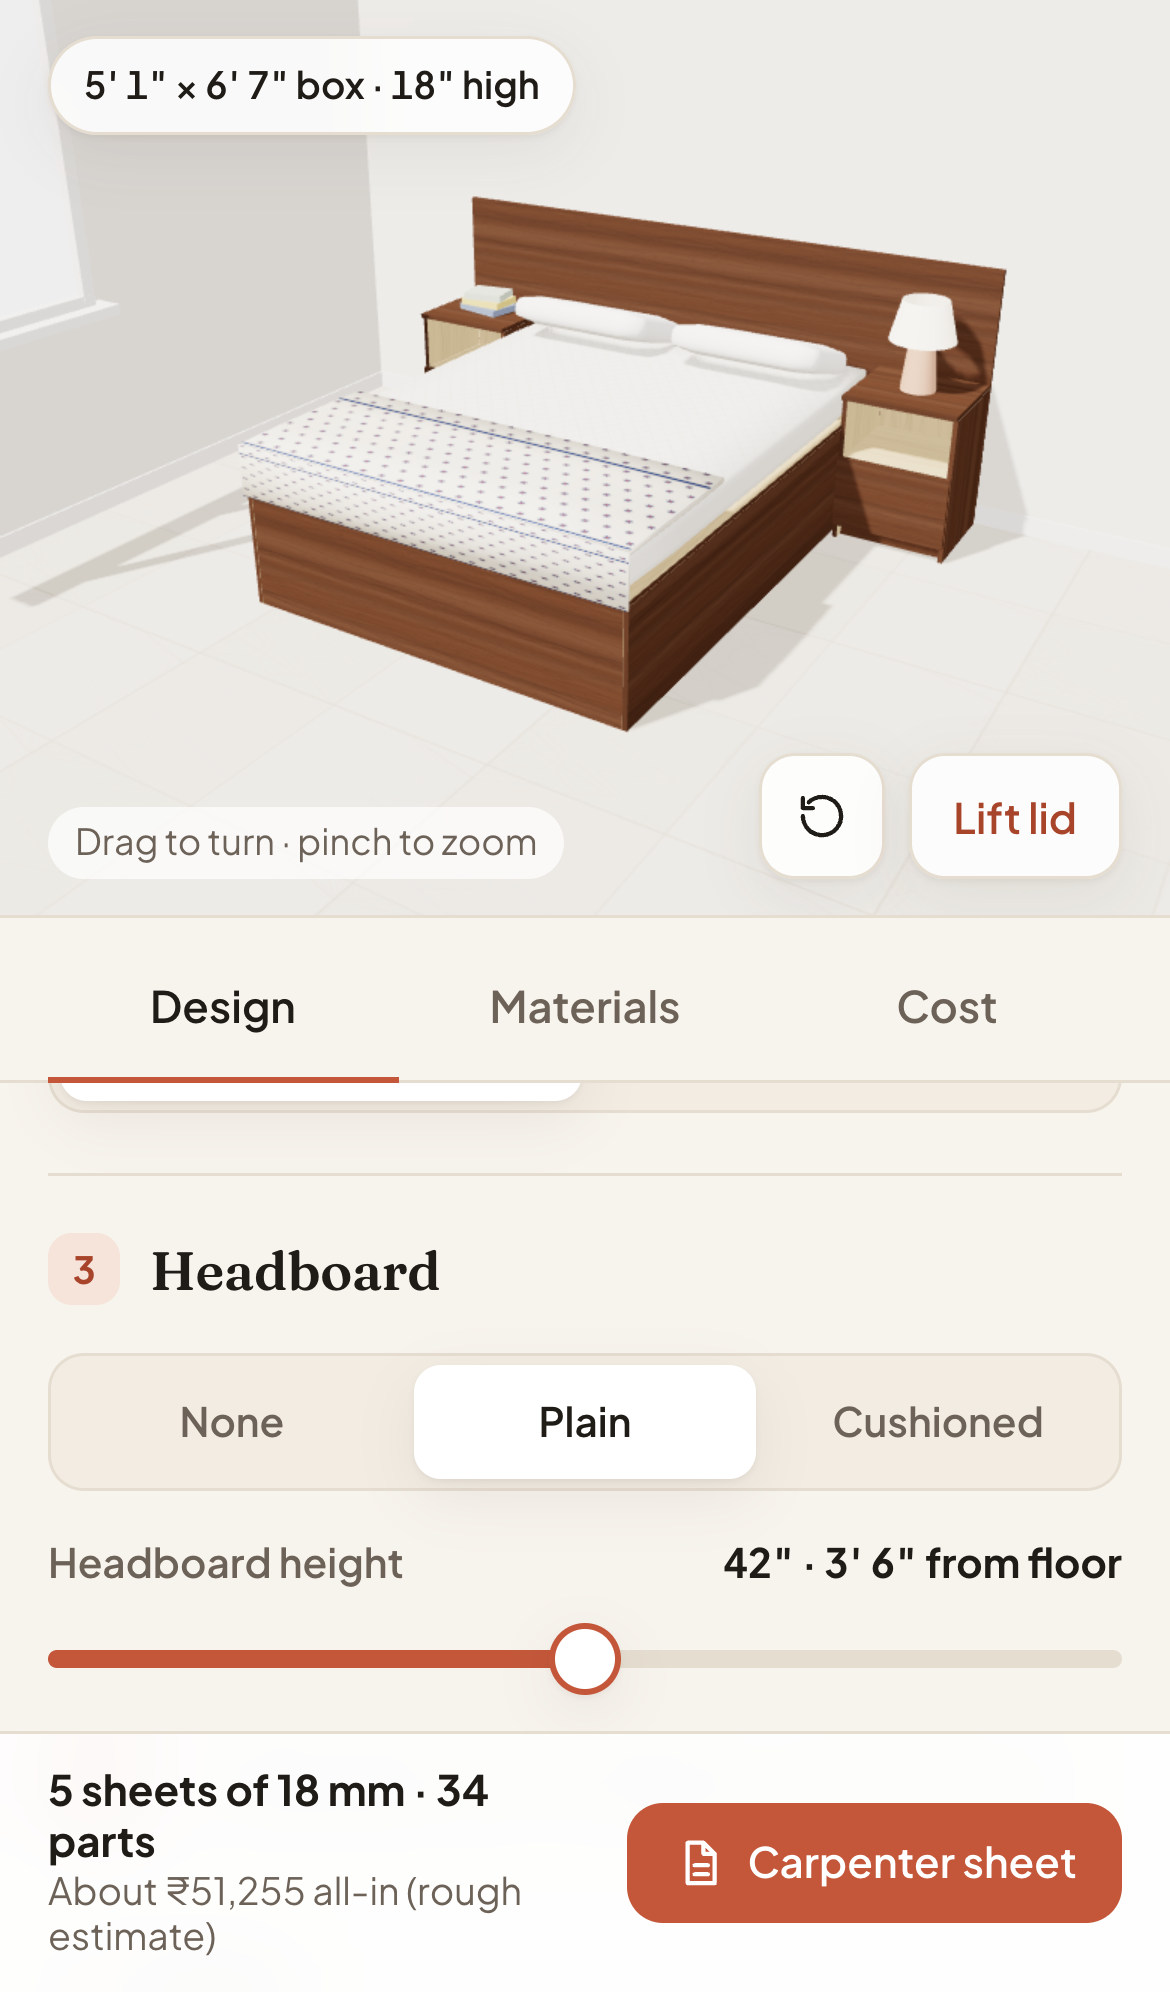
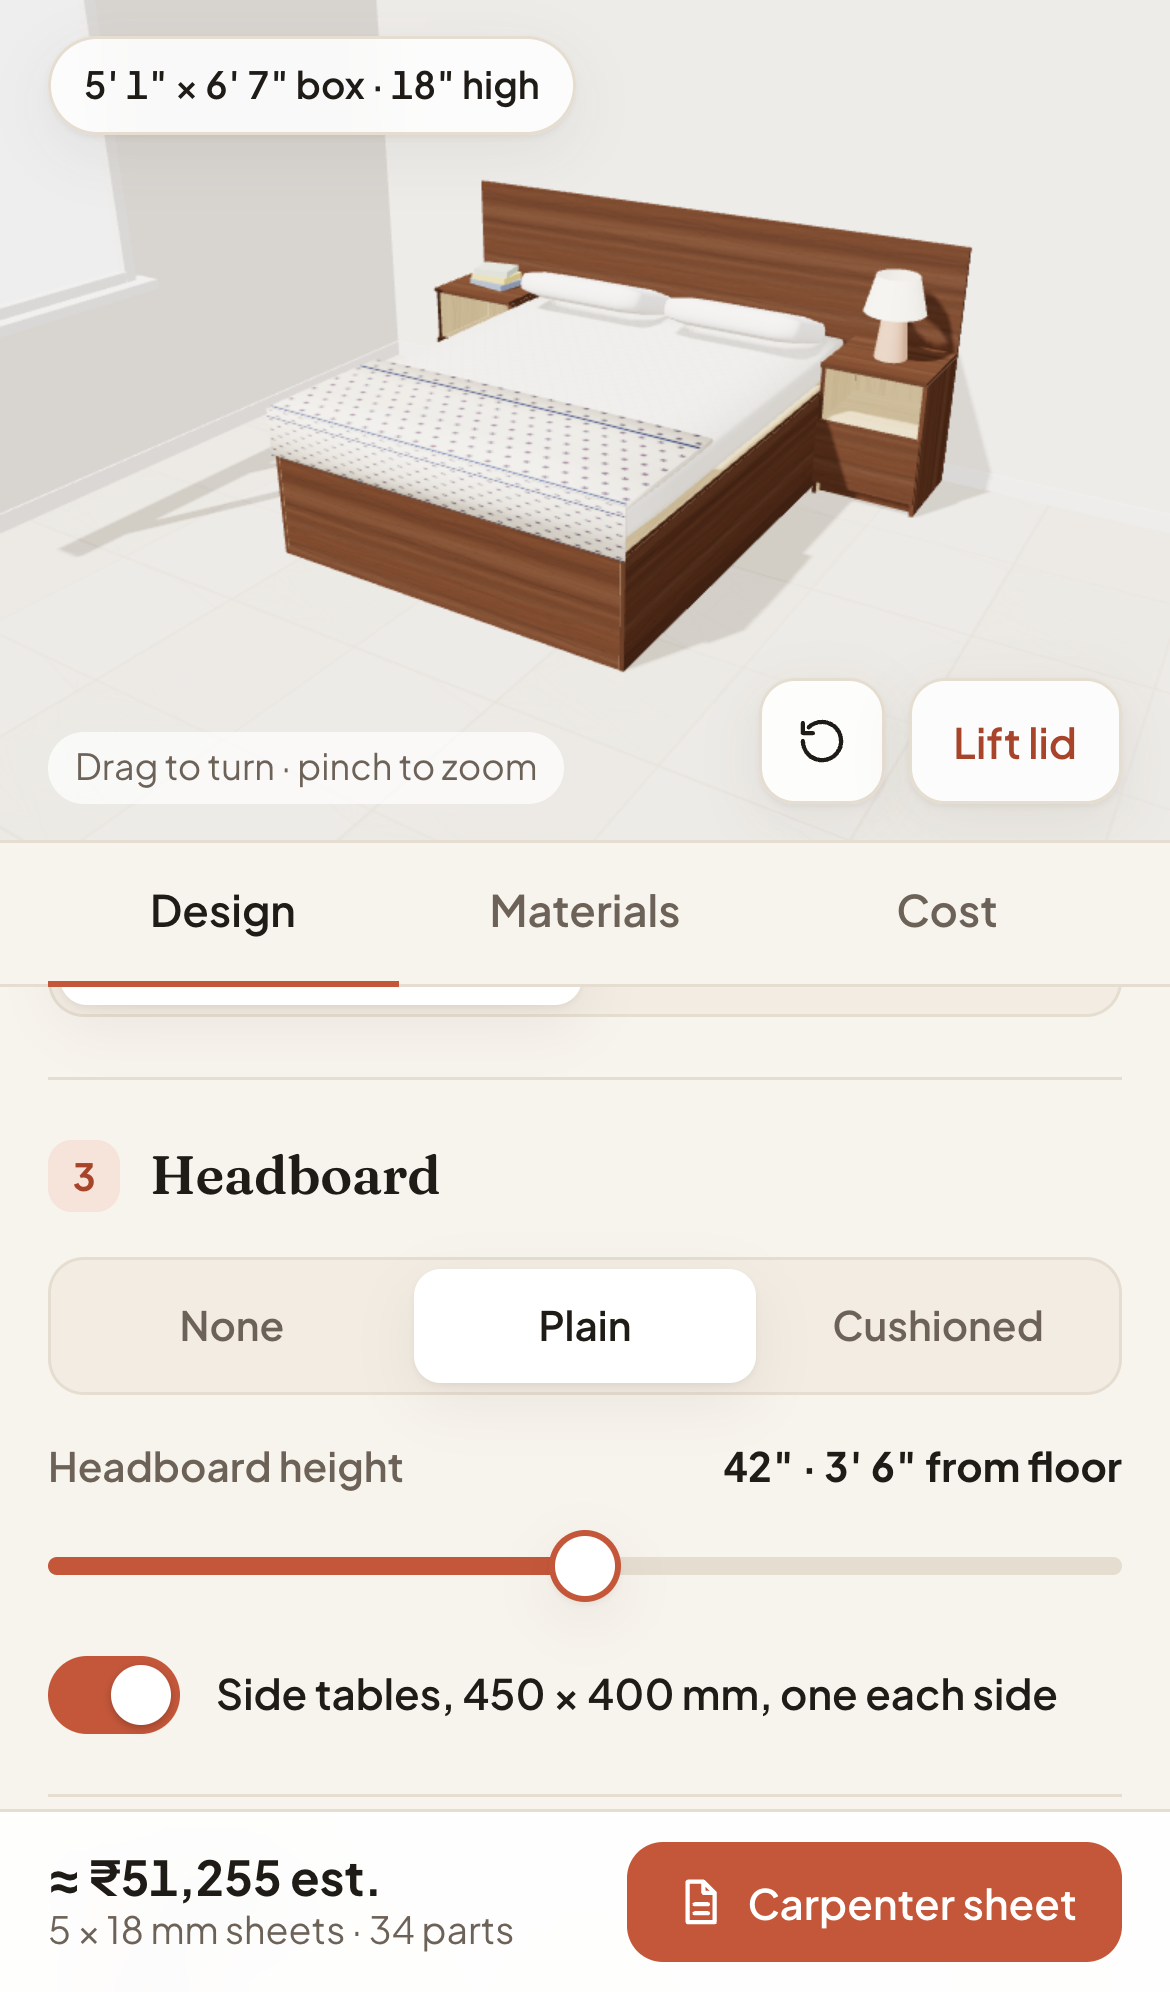
Polish mobile layout, README and screenshots

diff --git a/css/styles.css b/css/styles.css
@@ -60,9 +60,9 @@ button { cursor: pointer; }
 .logo-bg { fill: var(--accent); }
 .logo-ink { fill: none; stroke: var(--accent-ink); stroke-width: 3; stroke-linecap: round; stroke-linejoin: round; }
 .logo-dot { fill: var(--accent-ink); }
-.brand-text { display: flex; flex-direction: column; line-height: 1.05; }
+.brand-text { display: flex; flex-direction: column; gap: 3px; line-height: 1; }
 .brand-name { font-family: var(--display); font-weight: 700; font-size: 21px; letter-spacing: -.01em; }
-.brand-sub { font-size: 11.5px; color: var(--muted); letter-spacing: .04em; text-transform: uppercase; font-weight: 600; }
+.brand-sub { font-size: 10.5px; color: var(--muted); letter-spacing: .04em; text-transform: uppercase; font-weight: 600; }
 .top-actions { display: flex; gap: 8px; align-items: center; }
 .icon-btn {
   width: 40px; height: 40px; border-radius: 12px; border: 1px solid var(--border); background: var(--surface);
@@ -95,7 +95,7 @@ button { cursor: pointer; }
 
 /* ---------- layout (mobile first) */
 .layout { display: block; }
-.stage { position: relative; height: 46svh; min-height: 280px; background: var(--surface-2); overflow: hidden; }
+.stage { position: relative; height: 42svh; min-height: 280px; background: var(--surface-2); overflow: hidden; }
 body.tab-design .stage { position: sticky; top: 0; z-index: 10; box-shadow: 0 1px 0 var(--border); }
 .viewport { position: absolute; inset: 0; }
 .viewport canvas { display: block; touch-action: none; }
@@ -117,14 +117,14 @@ body.tab-design .stage { position: sticky; top: 0; z-index: 10; box-shadow: 0 1p
 @keyframes spin { to { transform: rotate(360deg); } }
 
 .panel { background: var(--bg); position: relative; }
-.tabs { display: flex; gap: 4px; padding: 10px var(--gutter) 0; border-bottom: 1px solid var(--border); background: var(--bg); position: sticky; top: 0; z-index: 9; }
-body.tab-design .tabs { top: 46svh; }
+.tabs { display: flex; gap: 4px; padding: 4px var(--gutter) 0; border-bottom: 1px solid var(--border); background: var(--bg); position: sticky; top: 0; z-index: 9; }
+body.tab-design .tabs { top: 42svh; }
 .tabs button {
   flex: 1; border: 0; background: none; padding: 10px 6px 12px; font-weight: 600; color: var(--muted); font-size: 14.5px;
-  border-bottom: 2.5px solid transparent; margin-bottom: -1px;
+  border-bottom: 2.5px solid transparent; margin-bottom: -1px; min-height: 44px;
 }
 .tabs button[aria-selected="true"] { color: var(--text); border-bottom-color: var(--accent); }
-.tab-body { padding: 6px var(--gutter) 110px; }
+.tab-body { padding: 6px var(--gutter) 96px; }
 
 .summary-bar {
   position: fixed; left: 0; right: 0; bottom: 0; z-index: 15; display: flex; align-items: center; justify-content: space-between; gap: 12px;
@@ -133,8 +133,8 @@ body.tab-design .tabs { top: 46svh; }
   border-top: 1px solid var(--border);
 }
 .sum { display: flex; flex-direction: column; line-height: 1.25; min-width: 0; }
-.sum strong { font-size: 14px; }
-.sum span { font-size: 12.5px; color: var(--muted); }
+.sum strong { font-size: 16px; white-space: nowrap; font-variant-numeric: tabular-nums; }
+.sum span { font-size: 12.5px; color: var(--muted); white-space: nowrap; overflow: hidden; text-overflow: ellipsis; }
 
 @media (min-width: 960px) {
   body { overflow: hidden; }
@@ -284,6 +284,11 @@ td .sub { display: block; font-size: 11.5px; color: var(--faint); }
 .toast.show { opacity: 1; transform: translate(-50%, 0); }
 
 @media (prefers-reduced-motion: reduce) { *, *::before, *::after { transition: none !important; animation: none !important; } }
+
+html.capture body { overflow: visible; }
+html.capture body > :not(.sheet-view) { display: none !important; }
+html.capture .sheet-view { position: static; overflow: visible; }
+html.capture .sheet-toolbar { display: none; }
 
 @media print {
   @page { size: A4; margin: 12mm; }

diff --git a/js/export.js b/js/export.js
@@ -4,6 +4,7 @@
   var B = root.BedCore, esc = B.esc;
   var LOGO = '<svg viewBox="0 0 40 40" aria-hidden="true"><rect width="40" height="40" rx="11" fill="#c4573a"/><path d="M9 11v18M9 22.5h22V29M9 18h7.5a4 4 0 0 1 4 4.5" fill="none" stroke="#fff" stroke-width="3" stroke-linecap="round" stroke-linejoin="round"/><circle cx="13.2" cy="15" r="2.4" fill="#fff"/></svg>';
 
+  function plural(u, n) { return n === 1 || u === 'm' || u === 'kg' || u === 'm²' || u === 'box of 100' ? u : u === 'pc' ? 'pcs' : u + 's'; }
   function today() { try { return new Date().toLocaleDateString('en-IN', { day: 'numeric', month: 'short', year: 'numeric' }); } catch (e) { return ''; } }
   function mmIn(a, b) { return a + ' × ' + b + ' mm'; }
   function inIn(a, b) { return B.inch(a) + ' × ' + B.inch(b); }
@@ -49,7 +50,7 @@
   function matTable(mats) {
     var h = '<div class="table-wrap"><table><thead><tr><th>Item</th><th>Details</th><th class="r">Qty</th></tr></thead><tbody>';
     sheetLines(mats).forEach(function (l) {
-      h += '<tr><td><b>' + esc(l.item) + '</b></td><td>' + esc(l.spec) + '</td><td class="r">' + l.qty + ' ' + esc(l.unit) + '</td></tr>';
+      h += '<tr><td><b>' + esc(l.item) + '</b></td><td>' + esc(l.spec) + '</td><td class="r">' + l.qty + ' ' + esc(plural(l.unit, l.qty)) + '</td></tr>';
     });
     return h + '</tbody></table></div>';
   }
@@ -90,7 +91,7 @@
     });
     L.push('');
     L.push('*Materials*');
-    sheetLines(mats).forEach(function (l) { L.push('• ' + l.item + ': ' + l.qty + ' ' + l.unit + ' (' + l.spec + ')'); });
+    sheetLines(mats).forEach(function (l) { L.push('• ' + l.item + ': ' + l.qty + ' ' + plural(l.unit, l.qty) + ' (' + l.spec + ')'); });
     L.push('');
     L.push('*Notes*');
     B.notes(d, mats).forEach(function (n, i) { L.push((i + 1) + '. ' + n); });
@@ -163,7 +164,7 @@
     h2('Materials & hardware');
     y += 6;
     sheetLines(mats).forEach(function (l) {
-      t(P, y + 13, l.item, 13.5, 700); t(P + 470, y + 13, l.spec, 13, 400, '#5d544b'); t(W - P, y + 13, l.qty + ' ' + l.unit, 13.5, 700, '#1f1b17', 'end');
+      t(P, y + 13, l.item, 13.5, 700); t(P + 470, y + 13, l.spec, 13, 400, '#5d544b'); t(W - P, y + 13, l.qty + ' ' + plural(l.unit, l.qty), 13.5, 700, '#1f1b17', 'end');
       out.push('<rect x="' + P + '" y="' + (y + 22) + '" width="' + (W - 2 * P) + '" height="1" fill="#e3dbcf"/>');
       y += 28;
     });

diff --git a/js/ui.js b/js/ui.js
@@ -119,13 +119,14 @@
     var D = design.dims;
     $('dimChip').textContent = B.ftIn(D.W) + ' × ' + B.ftIn(D.L) + ' box · ' + c.h + '″ high';
   }
+  function plural(u, n) { return n === 1 || u === 'm' || u === 'kg' || u === 'm²' || u === 'lump sum' || u === 'box of 100' ? u : u === 'pc' ? 'pcs' : u + 's'; }
   var swCache = {};
   function swatch(k) { if (!swCache[k]) { try { swCache[k] = window.BedTextures.swatchURL(k); } catch (e) { swCache[k] = ''; } } return swCache[k]; }
 
   function renderSummary() {
     var p = mats.ply[18];
-    $('sumSheets').textContent = (p ? p.buy + ' sheet' + (p.buy > 1 ? 's' : '') + ' of 18 mm' : '') + ' · ' + mats.rows.reduce(function (t, r) { return t + r.qty; }, 0) + ' parts';
-    $('sumCost').textContent = 'About ' + B.inr(cost.total) + ' all-in (rough estimate)';
+    $('sumSheets').textContent = '≈ ' + B.inr(cost.total) + ' est.';
+    $('sumCost').textContent = (p ? p.buy + ' × 18 mm sheets · ' : '') + mats.rows.reduce(function (t, r) { return t + r.qty; }, 0) + ' parts';
   }
 
   /* ---------- materials tab */
@@ -174,7 +175,7 @@
       if (l.group !== g) { h += '<div class="cost-group">' + l.group + '</div>'; g = l.group; }
       var isDays = l.key === 'carp';
       h += '<div class="cost-row"><div><div class="lbl">' + B.esc(l.label) + (costState.prices[l.key] == null ? '<span class="est">est.</span>' : '') + '</div><div class="qty">' +
-        (isDays ? '<label class="price days"><input type="number" inputmode="decimal" step="0.5" min="0" data-days value="' + l.qty + '" aria-label="Carpenter days"><span>days</span></label>' : l.qty + ' ' + l.unit) +
+        (isDays ? '<label class="price days"><input type="number" inputmode="decimal" step="0.5" min="0" data-days value="' + l.qty + '" aria-label="Carpenter days"><span>days</span></label>' : l.qty + ' ' + plural(l.unit, l.qty)) +
         ' × <label class="price"><span>₹</span><input type="number" inputmode="decimal" min="0" step="1" data-key="' + l.key + '" value="' + l.price + '" aria-label="Price per ' + l.unit + ' for ' + B.esc(l.label) + '"></label>' + (isDays ? '' : '<span>/' + l.unit + '</span>') +
         (isDays && costState.days != null ? ' <button class="link-btn" data-autodays type="button">use ' + cost.suggestedDays + '</button>' : '') + '</div></div><div class="amt">' + B.inr(l.amount) + '</div></div>';
     });

diff --git a/js/drawings.js b/js/drawings.js
@@ -36,7 +36,7 @@
   function drawingScale(d, maxWidthPx) {
     var f = extents(d, 'front'), s = extents(d, 'side'), t = extents(d, 'top');
     var W = maxWidthPx || 1040;
-    return Math.min((W - 2 * 2 * 78) / (f.w + s.w), 420 / Math.max(f.h, s.h), (W - 160) / t.w, 560 / t.h);
+    return Math.min((W - 2 * 2 * 78 - 40) / (f.w + s.w), 420 / Math.max(f.h, s.h), (W - 160) / t.w, 560 / t.h);
   }
 
   function view(d, key, scale, opt) {

diff --git a/README.md b/README.md
@@ -1,0 +1,48 @@
+# Palang: bed designer
+
+Design a plywood bed for your bedroom in 3D, see exactly what material it needs, and hand a clear spec to your carpenter.
+
+**Live:** https://tiwari91.github.io/bed-designer/
+
+## What it does
+
+- **3D design** (three.js r147): Single 3×6.5 ft, Double 4×6.5, Queen 5×6.5, King 6×6.5 or a custom mattress size in inches. Bed height 14–20″. Storage: on legs, two drawers, or a hydraulic lift lid (single or split in two). Headboard: none, plain panel or cushioned, with optional side tables. Laminate finishes (walnut, teak, oak, white, grey) are procedural textures. The room has a tiled floor, two walls you can recolour, and a window. Drawers slide out and lids lift. Drag to orbit and pinch or scroll to zoom; this works on touch screens.
+- **Material calculator from the actual geometry.** Every panel in the 3D model becomes a row in the cutting list (size in mm and inches, thickness, edge banding, laminate faces). Pieces are nested on 8×4 ft (2440×1220 mm) sheets per thickness with a 4 mm saw kerf, and the layouts are drawn as SVG.
+- **Cost estimate** with editable unit prices: BWP vs MR plywood, laminate, edge band, hardware, labour days. Defaults are rough Pune figures, clearly marked, not live prices.
+- **Carpenter sheet**: front, side and top dimensioned drawings, the cutting list, sheet layouts, materials, and notes. Export it with *Copy as text* (for WhatsApp), *Download PNG*, or *Print / PDF*.
+- **Save and share**: the design is kept in localStorage, and the URL hash (`#bed=v1,…`) holds the whole design, so the link opens the same bed for the carpenter.
+
+## How the material maths works
+
+1. `js/geometry.js` builds the bed as a list of panels, each an axis-aligned box in mm with a thickness, laminated faces and banded edges. The 3D scene, the drawings and the cutting list all read this same list.
+2. `js/materials.js` turns each panel into a cut piece (the two non-thickness dimensions). A panel bigger than a sheet (for example a 1549 × 1863 mm queen lid) is cut into equal strips that fit, plus a joint batten. Identical pieces are grouped.
+3. `js/nesting.js` packs each thickness onto 2440 × 1220 sheets with a guillotine packer: every cut runs edge to edge, the way a carpenter cuts on a table saw. Rotation is allowed and each piece reserves 4 mm of kerf. It tries 24 strategies (3 sort orders × 4 split rules × 2 fit rules) and keeps the one with the fewest sheets, and among ties the emptiest last sheet.
+4. **Wastage (default 10%, editable):** buy = max(nested sheets, ⌈parts area × 1.10 ÷ 2.977 m²⌉). The same allowance is added to laminate, edge band, screws, Fevicol, foam and fabric.
+5. Edge band = the sum of exposed edges. Laminate = outer faces only, cut 10 mm oversize, nested on 8×4 sheets. Hardware is counted from the design (lift-kit pairs per lid, with strut force from lid + mattress weight; channel pairs per drawer; hinges per door).
+
+Queen 5×6.5 ft, hydraulic single lid, 18″ box, plain 3.5 ft headboard: **4 sheets of 18 mm** (8.43 m² of parts, 71% use; with 10% wastage 9.27 m² still fits in 4), **2 sheets of 9 mm** for the storage floor, 3 laminate sheets, 13.2 m of edge band (buy 15 m), and 1 lift-kit pair.
+
+## Construction assumptions
+
+- The box is 1″ (25 mm) bigger than the mattress. 18 mm plywood for the box, lid and headboard; 9 mm for the storage floor; 12 mm for drawer boxes and the cushion board.
+- With a headboard, the headboard panel forms the head end of the box. The lid sits behind a 140 mm fixed strip, and lift-kit brackets screw straight into the 18 mm lid.
+- Joinery is screwed and glued butt joints.
+
+## Run locally
+
+Open `index.html` through any static server, e.g. `python3 -m http.server`. It needs network access for three.js (cdnjs), OrbitControls (jsdelivr) and Google Fonts.
+
+## Tests
+
+```sh
+node --test tests/              # nesting + materials unit tests
+node tests/check.mjs [--shots]  # headless Chromium: WebGL renders, zero console errors,
+                                # cutting list follows size, queen sheet count,
+                                # share URL round-trip, PNG export, no horizontal scroll on iPhone 12
+```
+
+`check.mjs` loads Playwright from the s2s-web-client checkout and uses `CHROME_BIN` (defaults to the local chrome-headless-shell). It starts and stops its own static server.
+
+## Files
+
+`index.html`, `css/styles.css`, `js/geometry.js`, `js/nesting.js`, `js/materials.js`, `js/drawings.js`, `js/textures.js`, `js/scene.js`, `js/export.js`, `js/ui.js`, `tests/`.
